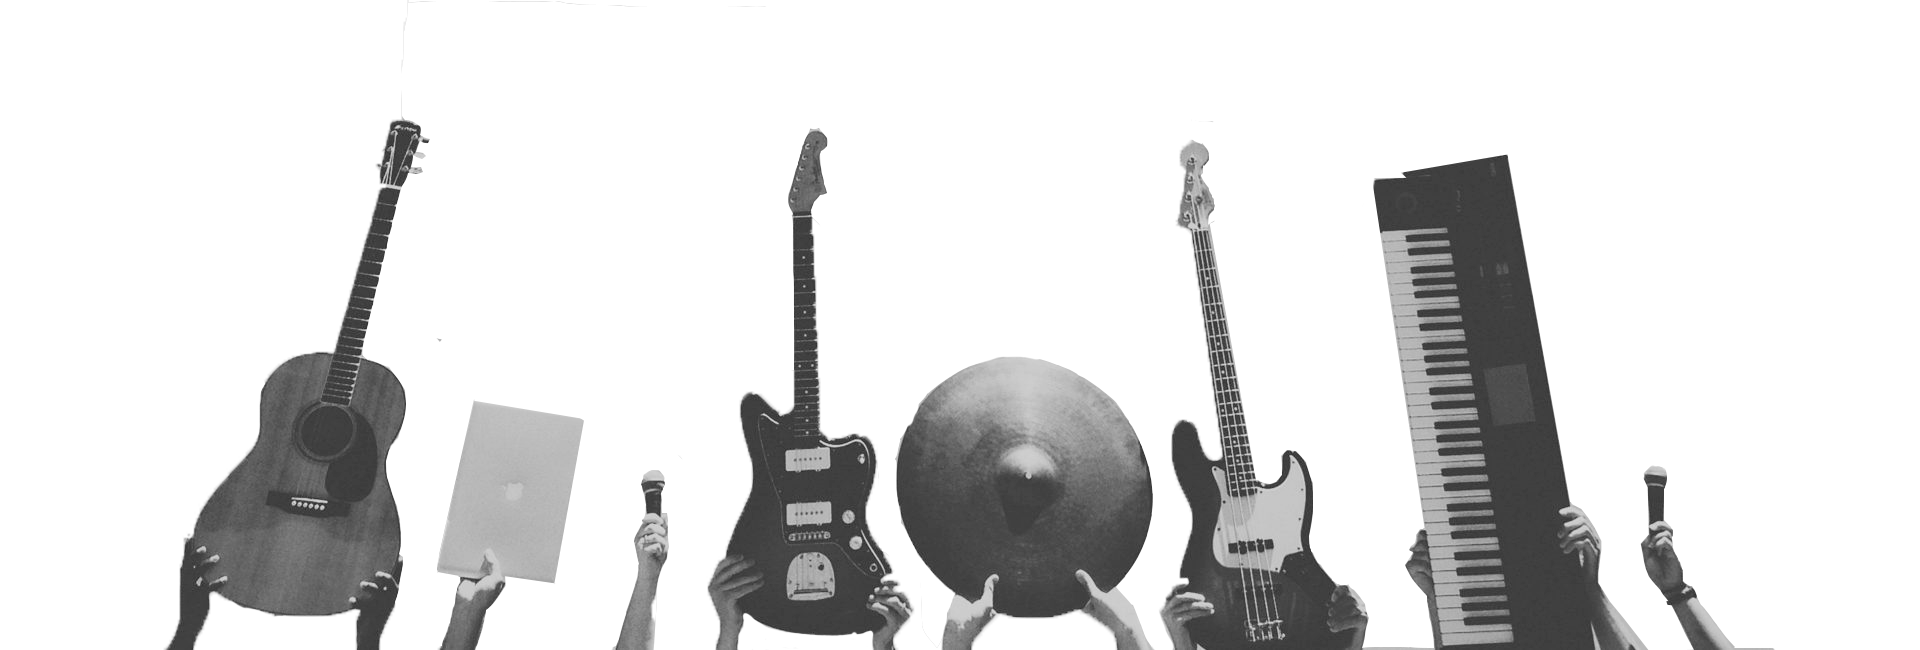
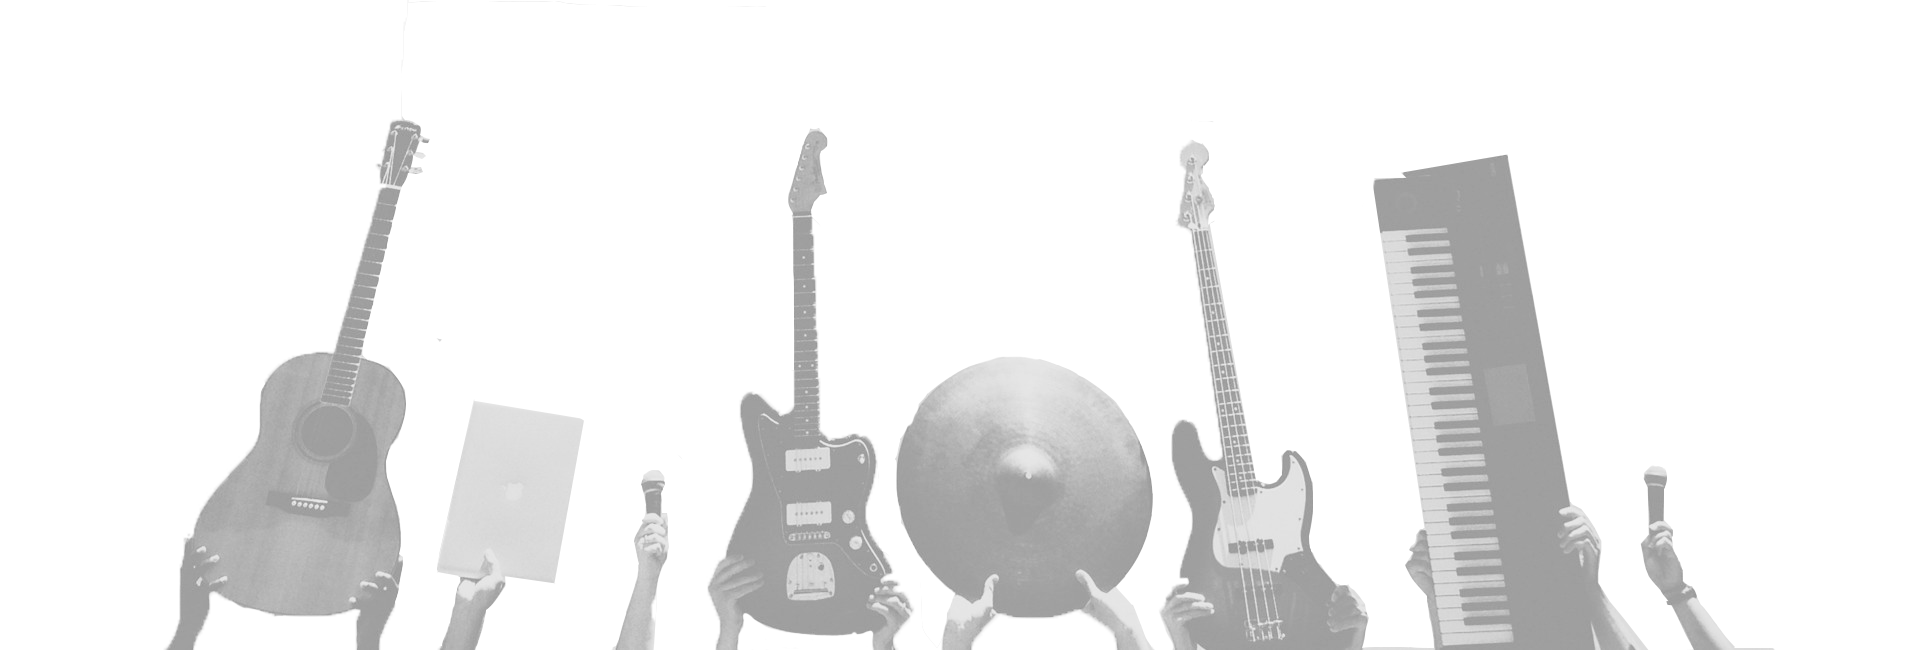
Front page

Changed region(s): [[0.0625, 0.1846, 0.9375, 1.0]]

diff --git a/index.css b/index.css
@@ -1,0 +1,70 @@
+:root {
+    --darkgrey: #3c404d;
+    --lightyellow: #f7d447;
+    --lightgrey: #d1d0cf;
+    --white: #ffff;
+}
+
+@font-face {
+    font-family: "Glacial Indifference";
+    src: url(assets/GlacialIndifference-Regular.otf);
+    font-weight: normal;
+}
+
+body {
+    font-family: "Glacial Indifference", Arial, sans-serif;
+}
+
+h1, h2 {
+    font-weight: bold;
+}
+@media only screen and (min-width: 1200px) {
+    h1 {
+        font-size: 5rem;
+    }
+
+    h2 {
+        font-size: 4rem;
+    }
+
+    p {
+        font-size: 1.5rem;
+    }
+
+}
+
+.landing {
+    padding: 15vw 0;
+    background-image: url("assets/front.png");
+    background-size: contain;
+    background-repeat: no-repeat;
+    background-position-y: bottom;
+    background-color: var(--lightgrey);
+}
+
+.about {
+    background-color: var(--darkgrey);
+}
+
+.about-content {
+    color: var(--lightgrey);
+    padding: 7vw 15 0 15;
+}
+
+.about-content p {
+    color: var(--lightyellow);
+    line-height: 2;
+}
+
+.audience {
+    background-color: var(--lightgrey);
+}
+
+.audience-content {
+    color: var(--darkgrey);
+    padding: 7vw 15 0 15;
+}
+
+.audience-content p {
+    line-height: 2;
+}

diff --git a/index.php b/index.php
@@ -1,0 +1,52 @@
+<html>
+    <head>
+        <link rel="stylesheet" href="https://stackpath.bootstrapcdn.com/bootstrap/4.1.3/css/bootstrap.min.css" integrity="sha384-MCw98/SFnGE8fJT3GXwEOngsV7Zt27NXFoaoApmYm81iuXoPkFOJwJ8ERdknLPMO" crossorigin="anonymous">
+        <link rel="stylesheet" href="index.css">
+    </head>
+    <body>
+        <?php include("navbar.php") ?>
+        <div class="landing container-fluid">
+            <h1 class="text-center">Be your own DJ, anywhere.</h1>
+            <div class="row justify-content-center m-0">
+                <button type="button" class="btn btn-warning btn-lg col-md-3 m-3">Make a playlist</button>
+                <button type="button" class="btn btn-warning btn-lg col-md-3 m-3">Join a playlist</button>
+            </div>
+        </div>
+        <div class="about container-fluid">
+            <div class="about-content row">
+                <div class="col-md-6">
+                    <h2>Who we are</h2>
+                    <p>
+                    WeJam is a web app that allows you to create collaborative playlists.
+                    <br>
+                    Don’t have a preference? Check out or pre-selected playlists for any music mood.
+                    </p>
+                </div>
+                <div class="col-md-6">
+                    <img class="w-100 align-bottom" src="assets/girl1.png"/>
+                </div>
+            </div>
+        </div>
+        <div class="audience container-fluid">
+            <div class="audience-content row">
+                <div class="col-md-6 order-last order-md-first">
+                    <img class="w-100 align-bottom" src="assets/guy2.png"/>
+                </div>
+                <div class="col-md-6">
+                    <h2>Our Audience</h2>
+                    <p>
+                    People who subscribe to music apps
+                    <br>
+                    Pandora, Spotify, Apple Music,
+                    <br>
+                    Tidal, or Youtube Red
+                    <br>
+                    People who share music
+                    <br>
+                    Restaurants who want to give their customers the ability to control what music they listen to 
+                    </p>
+                </div>
+            </div>
+        </div>
+    </body>
+</html>

diff --git a/navbar.php b/navbar.php
@@ -1,0 +1,31 @@
+<nav class="navbar navbar-expand-lg navbar-light bg-light container">
+  <button class="navbar-toggler" type="button" data-toggle="collapse" data-target="#navbarTogglerDemo01" aria-controls="navbarTogglerDemo01" aria-expanded="false" aria-label="Toggle navigation">
+    <span class="navbar-toggler-icon"></span>
+  </button>
+  <div class="collapse navbar-collapse" id="navbarTogglerDemo01">
+    <a class="navbar-brand nav-justified" href="#">Hidden brand</a>
+    <ul class="navbar-nav mr-auto mt-2 mt-lg-0">
+      <li class="nav-item">
+        <a class="nav-link" href="top-songs.php"><li>Top Songs</li></a>
+      </li>
+      <li class="nav-item">
+        <a class="nav-link" href="about.php"><li>About</li></a>
+      </li>
+      <li class="nav-item">
+        <a class="nav-link" href="team.php"><li>Our Team</li></a>
+      </li>
+      <li class="nav-item">
+        <a class="nav-link" href="contact.php"><li>Contact</li></a>
+      </li>
+    </ul>
+
+    <ul class="navbar-nav my-2 my-lg-0">
+      <li class="nav-item">
+        <a class="nav-link" href="accountcreation.php"><li>Sign Up</li></a>
+      </li>
+      <li class="nav-item">
+        <a class="nav-link" href="login.php"><li>Login</li></a>
+      </li>
+</ul>
+  </div>
+</nav>
